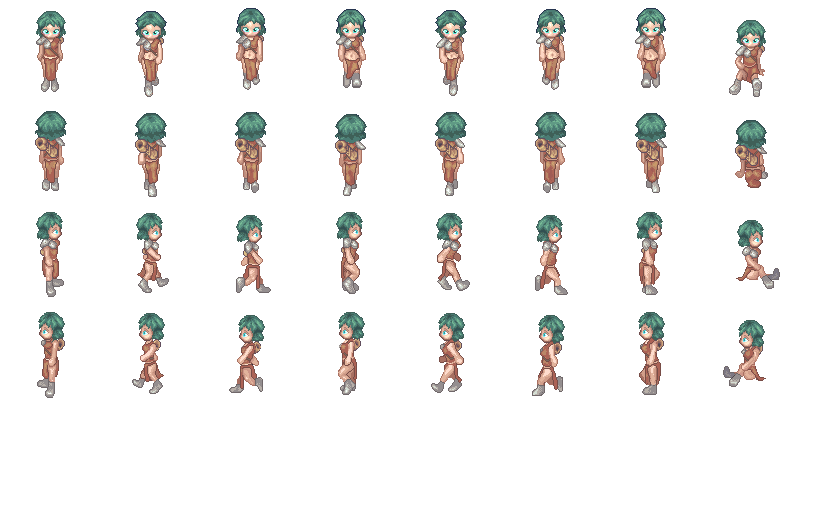
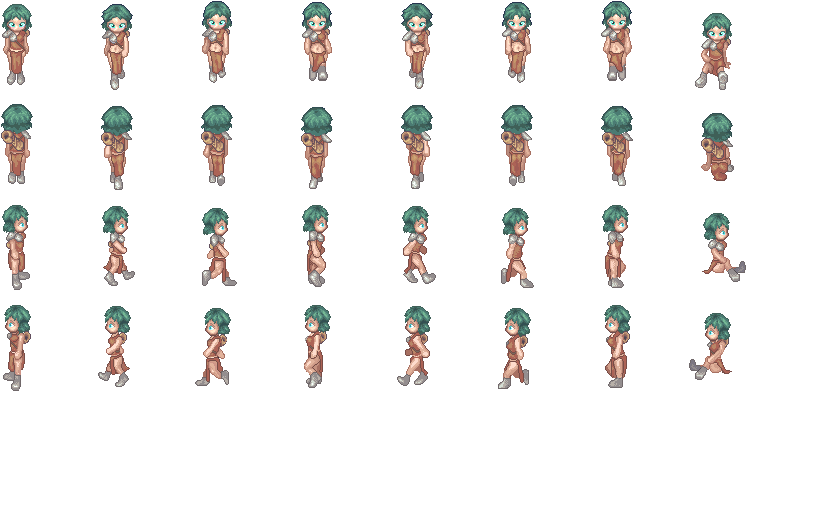
Animate walking right

diff --git a/Animator.js b/Animator.js
@@ -1,0 +1,30 @@
+class Animator {
+	constructor(spritesheet, xStart, yStart, width, height, frameCount, frameDuration) {
+		Object.assign(this, { spritesheet, xStart, yStart, width, height, frameCount, frameDuration })
+
+		this.elapsedTime = 0;
+		this.totalTime = frameCount * frameDuration;
+	};
+
+	drawFrame(tick, ctx, x, y) {
+		this.elapsedTime += tick;
+
+		if(this.elapsedTime > this.totalTime) this.elapsedTime -= this.totalTime;
+
+		const frame = this.currentFrame();
+
+		ctx.drawImage(this.spritesheet,
+			this.xStart + this.width * frame, this.yStart,
+			this.width, this.height,
+			x, y,
+			this.width, this.height);
+	};
+
+	currentFrame() {
+		return Math.floor(this.elapsedTime / this.frameDuration);
+	};
+
+	isDone() {
+		return (this.elapsedTime >= this.totalTime);
+	}
+}

diff --git a/index.html b/index.html
@@ -1,6 +1,6 @@
 
 <!DOCTYPE html>
-<html>
+<html lang="en">
 <head>
     <meta charset="utf-8">
     <title>Game Project Title Goes Here</title>
@@ -8,6 +8,8 @@
     <script type="text/javascript" src="assetmanager.js"></script>
     <script type="text/javascript" src="timer.js"></script>
     <script type="text/javascript" src="gameengine.js"></script>
+    <script type="text/javascript" src="Animator.js"></script>
+    <script type="text/javascript" src="player.js"></script>
     <script type="text/javascript" src="util.js"></script>
     <script type="text/javascript" src="main.js"></script>
 </head>

diff --git a/player.js b/player.js
@@ -1,0 +1,20 @@
+class Player {
+	constructor(game) {
+		this.game = game;
+		this.animator = new Animator(ASSET_MANAGER.getAsset("./player.png"),
+			0, 204, 98, 88, 7, 0.2);
+
+		this.x = 10;
+		this.y = 10;
+		this.speed = 128;
+	};
+
+	update() {
+		this.x += this.speed * this.game.clockTick;
+		if(this.x > 1024) this.x = 0;
+	};
+
+	draw(ctx) {
+		this.animator.drawFrame(this.game.clockTick, ctx, this.x, this.y)
+	};
+}

diff --git a/main.js b/main.js
@@ -2,9 +2,14 @@ const gameEngine = new GameEngine();
 
 const ASSET_MANAGER = new AssetManager();
 
+ASSET_MANAGER.queueDownload("./player.png");
+
 ASSET_MANAGER.downloadAll(() => {
 	const canvas = document.getElementById("gameWorld");
 	const ctx = canvas.getContext("2d");
+	ctx.imageSmoothingEnabled = false;
+
+	gameEngine.addEntity(new Player(gameEngine));
 
 	gameEngine.init(ctx);
 
